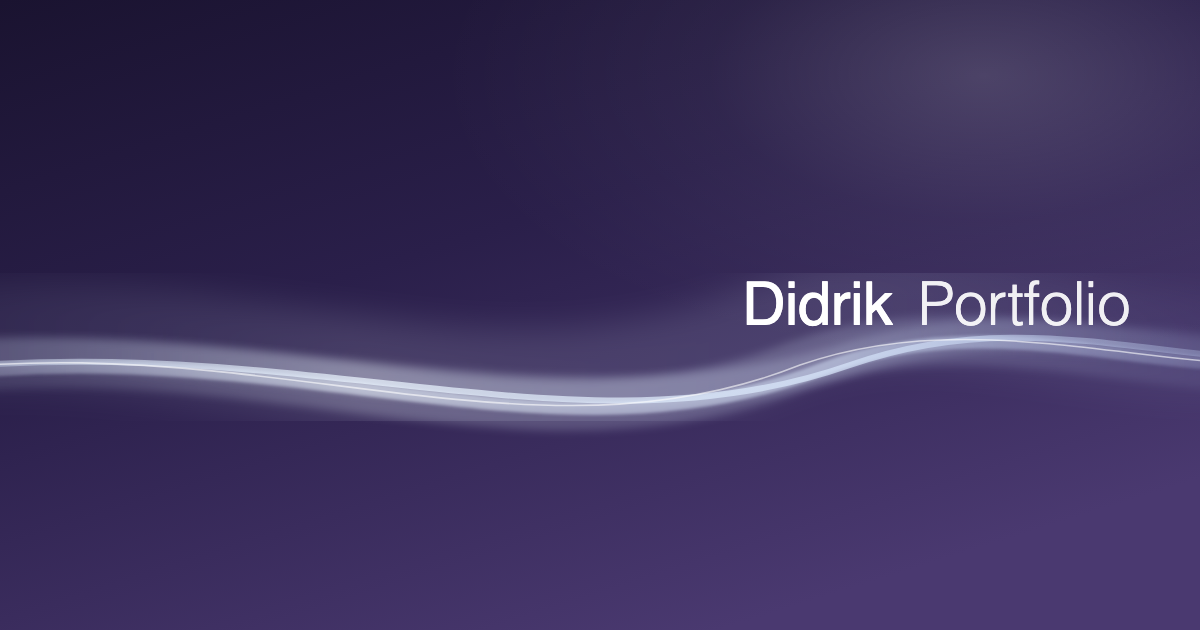
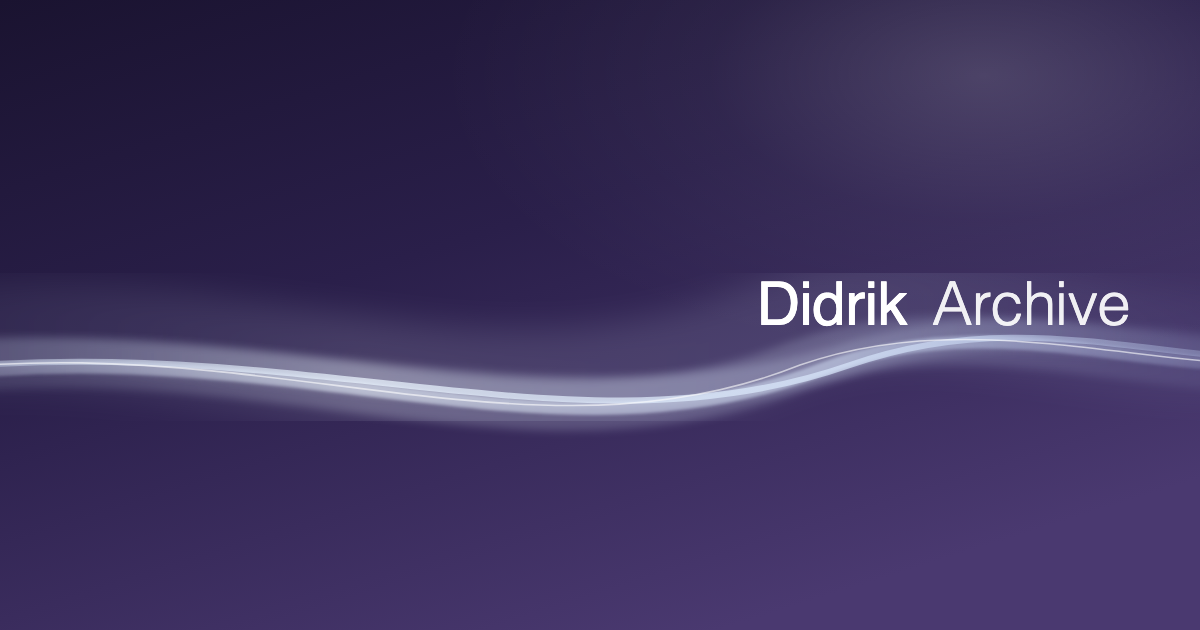
Rename Portfolio → Archive
Splash and OG card both updated. Same gauzy wave background, same right-
aligned typography — just a new word.

Changed region(s): [[0.6167, 0.4222, 0.9558, 0.5429]]

diff --git a/src/app.jsx b/src/app.jsx
@@ -758,7 +758,7 @@ function Splash({ phase }) {
       <div className="splash-black" />
       <div className="splash-title">
         <span className="splash-title-name">Didrik</span>
-        <span className="splash-title-thin">Portfolio</span>
+        <span className="splash-title-thin">Archive</span>
         <div className="splash-title-rule" />
       </div>
     </div>
